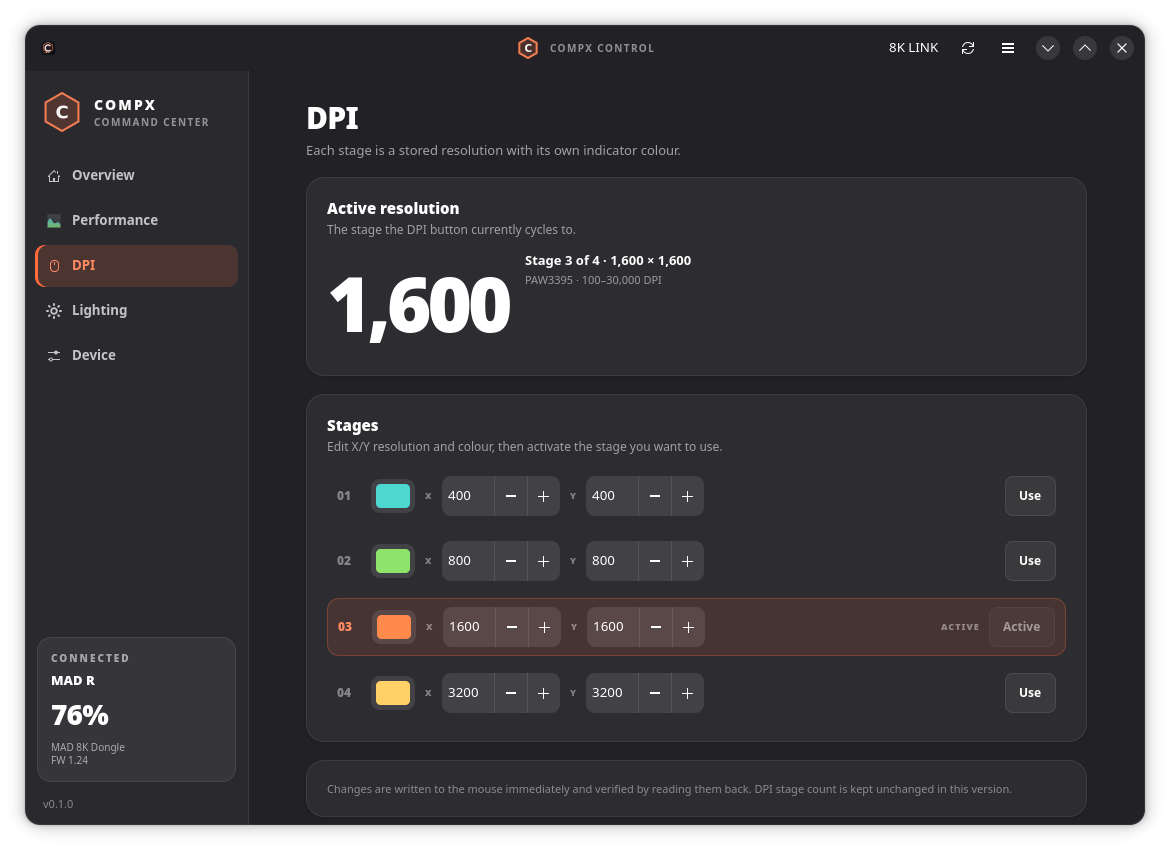
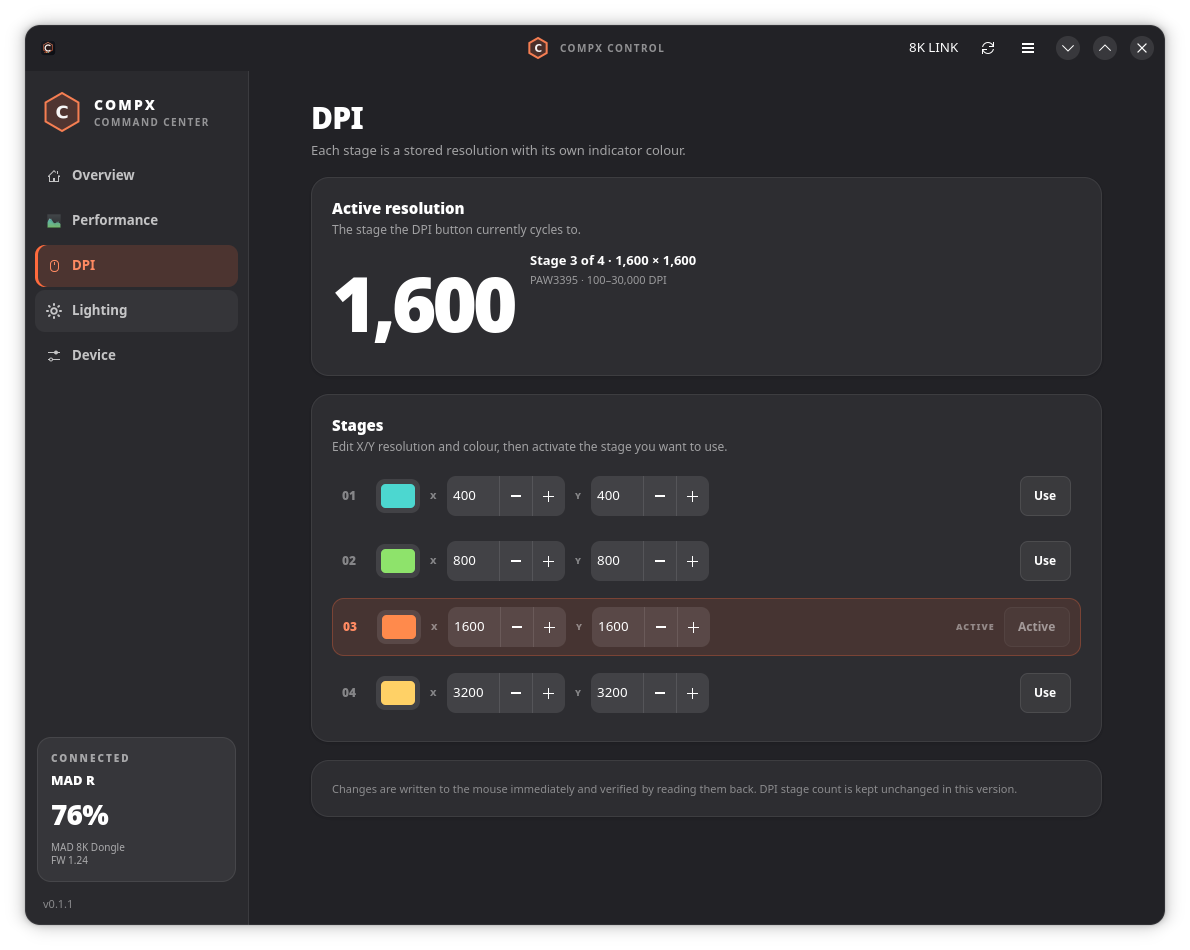
Add VXE R1 Pro 1K receiver support and receiver picker

diff --git a/compx_control/worker.py b/compx_control/worker.py
@@ -11,7 +11,7 @@ from typing import Callable
 
 from . import devices, protocol
 from .controller import Controller
-from .protocol import DeviceNotFound, PermissionDenied, ProtocolError, discover
+from .protocol import DeviceInfo, DeviceNotFound, PermissionDenied, ProtocolError, discover
 from .state import Button, MouseState
 
 StateCallback = Callable[[MouseState, set[str]], None]
@@ -41,6 +41,8 @@ class DeviceWorker:
         self._pending: OrderedDict[str, tuple] = OrderedDict()
         self._force_full = False
         self._retry_now = False
+        self._preferred_path: str | None = None
+        self._available: list[DeviceInfo] = []
         self._state = MouseState()
         self._controller: Controller | None = None
         self._connected = False
@@ -103,6 +105,19 @@ class DeviceWorker:
         with self._lock:
             self._retry_now = True
 
+    def available_devices(self) -> list[DeviceInfo]:
+        """Configuration interfaces currently present (for a device picker)."""
+        try:
+            return discover()
+        except Exception:
+            return []
+
+    def select_device(self, path: str) -> None:
+        """Switch to another receiver or cable when more than one is present."""
+        with self._lock:
+            self._preferred_path = path
+            self._retry_now = True
+
     # -- callbacks --------------------------------------------------------
     def _emit_state(self, state: MouseState, changed: set[str] | None = None) -> None:
         try:
@@ -133,9 +148,19 @@ class DeviceWorker:
     # -- connection -------------------------------------------------------
     def _connect(self) -> bool:
         candidates = discover()
+        self._available = candidates
         if not candidates:
             self._emit_link(False, "No COMPX mouse or receiver found.")
             return False
+        with self._lock:
+            preferred = self._preferred_path
+        if preferred:
+            matching = [item for item in candidates if item.path == preferred]
+            if matching:
+                candidates = matching
+            else:
+                with self._lock:
+                    self._preferred_path = None
 
         errors: list[str] = []
         for info in candidates:
@@ -245,7 +270,14 @@ class DeviceWorker:
             with self._lock:
                 retry = self._retry_now
                 self._retry_now = False
-            if retry and self._controller is not None:
+            with self._lock:
+                preferred = self._preferred_path
+            if (
+                retry
+                and self._controller is not None
+                and preferred
+                and self._controller.path != preferred
+            ):
                 self._disconnect(None)
             if self._controller is None:
                 self._emit_link(False, self._last_link_error)
@@ -378,7 +410,7 @@ class DemoWorker:
 
     @property
     def device_path(self) -> str | None:
-        return None
+        return "/dev/hidraw-demo"
 
     @property
     def capabilities(self):
@@ -401,6 +433,19 @@ class DemoWorker:
 
     def refresh(self, full: bool = True) -> None:
         self.on_state(copy.deepcopy(self._state), set())
+
+    def available_devices(self) -> list[DeviceInfo]:
+        return [DeviceInfo(
+            path="/dev/hidraw-demo",
+            vendor_id=0x373B,
+            product_id=0x1040,
+            product_name="Compx MAD 8K DONGLE",
+            bcd_device="0215",
+            accessible=True,
+        )]
+
+    def select_device(self, path: str) -> None:
+        return None
 
     def submit(self, method: str, *args, key: str | None = None) -> None:
         state = self._state

diff --git a/compx_control/ui.py b/compx_control/ui.py
@@ -988,6 +988,14 @@ class MainWindow(Adw.ApplicationWindow):
     # ---------------------------------------------------------------- device
     def _build_device(self) -> Gtk.Widget:
         page, root = self._page("Device", "Identity, stored buttons and maintenance.")
+        self.devices_card, devices_body = self._card(
+            "Configuration devices",
+            "Choose which receiver or cable to control when more than one is connected.",
+        )
+        self.devices_list = Gtk.Box(orientation=Gtk.Orientation.VERTICAL, spacing=7)
+        devices_body.append(self.devices_list)
+        root.append(self.devices_card)
+
         details, body = self._card("Hardware", "Read directly from the configuration channel.")
         self.device_values: dict[str, Gtk.Label] = {}
         for label in ("Model", "Sensor", "Connection", "Firmware", "USB", "CID / MID", "Receiver", "Device revision"):
@@ -1544,6 +1552,7 @@ class MainWindow(Adw.ApplicationWindow):
             f"{state.receiver_name} (0x{state.receiver_pid:04x})" if state.receiver_pid else "—"
         )
         self.device_values["Device revision"].set_text(state.usb_bcd or "—")
+        self._update_device_choices()
         self.profile_card.set_visible(state.profile is not None)
         for number, button in enumerate(self.profile_buttons, start=1):
             self._set_active(button, state.profile == number)
@@ -1568,6 +1577,38 @@ class MainWindow(Adw.ApplicationWindow):
                 action.set_halign(Gtk.Align.END)
                 row.append(action)
                 self.buttons_list.append(row)
+
+    def _update_device_choices(self) -> None:
+        if not hasattr(self.worker, "available_devices"):
+            self.devices_card.set_visible(False)
+            return
+        devices = self.worker.available_devices()
+        current = self.worker.device_path
+        self.devices_card.set_visible(bool(devices))
+        for child in list(self.devices_list):
+            self.devices_list.remove(child)
+        for info in devices:
+            row = Gtk.Box(orientation=Gtk.Orientation.HORIZONTAL, spacing=12)
+            text = Gtk.Box(orientation=Gtk.Orientation.VERTICAL, spacing=1)
+            text.set_hexpand(True)
+            text.append(self._label(info.product_name, "row-title"))
+            kind = "receiver" if info.is_receiver else "mouse"
+            state_text = f"{info.vendor_id:04x}:{info.product_id:04x} · {kind}"
+            if not info.accessible:
+                state_text += " · no permission"
+            text.append(self._label(state_text, "row-sub"))
+            row.append(text)
+            if info.path == current:
+                badge = self._label("IN USE", "status-pill")
+                badge.set_valign(Gtk.Align.CENTER)
+                row.append(badge)
+            else:
+                button = Gtk.Button(label="Use")
+                button.add_css_class("pill")
+                button.set_sensitive(info.accessible)
+                button.connect("clicked", lambda _b, path=info.path: self.worker.select_device(path))
+                row.append(button)
+            self.devices_list.append(row)
 
     # ---------------------------------------------------------------- dialogs
     def _save_report(self) -> None:

diff --git a/tests/test_devices.py b/tests/test_devices.py
@@ -21,6 +21,18 @@ class ModelTests(unittest.TestCase):
         assert model is not None
         self.assertEqual(model.brand, "VXE")
 
+    def test_r1_pro_identity_on_1k_receiver(self) -> None:
+        model = devices.model_for(2, 8, 0x3554, 0xF58A, "Compx VXE NordicMouse 1K Dongle")
+        self.assertIsNotNone(model)
+        assert model is not None
+        self.assertEqual(model.name, "VXE R1 Pro")
+        receiver = devices.receiver_for(0xF58A, "Compx VXE NordicMouse 1K Dongle")
+        self.assertIsNotNone(receiver)
+        assert receiver is not None
+        caps = devices.capabilities_for(model=model, receiver=receiver)
+        self.assertEqual(caps.polling_rates, [125, 250, 500, 1000])
+        self.assertEqual(caps.link_ceiling, 1000)
+
     def test_unknown_falls_back_to_usb(self) -> None:
         self.assertIsNone(devices.model_for(None, None, 0x373B, 0x9999))
         caps = devices.capabilities_for(model=None, receiver=None,

diff --git a/compx_control/protocol.py b/compx_control/protocol.py
@@ -159,7 +159,7 @@ def build_frame(cmd: int, body: bytes = b"") -> bytes:
 
 def build_read(addr: int, length: int) -> bytes:
     if not 1 <= length <= MAX_EEPROM_CHUNK:
-        raise ValueError("read length must be 1-8")
+        raise ValueError("read length must be 1-10")
     if not 0 <= addr <= 0xFFFF:
         raise ValueError("address out of range")
     return build_frame(
@@ -170,7 +170,7 @@ def build_read(addr: int, length: int) -> bytes:
 
 def build_write(addr: int, data: bytes) -> bytes:
     if not 1 <= len(data) <= MAX_EEPROM_CHUNK:
-        raise ValueError("write length must be 1-8")
+        raise ValueError("write length must be 1-10")
     if not 0 <= addr <= 0xFFFF:
         raise ValueError("address out of range")
     return build_frame(

diff --git a/compx_control/devices.py b/compx_control/devices.py
@@ -72,9 +72,13 @@ MODELS: tuple[Model, ...] = (
           usb_ids=((0x373B, 0x104C),)),
     Model(2, 133, "MAD R", "ATK", "PAW3950Ultra", 8000, bottom_button=False,
           usb_ids=((0x373B, 0x132B),)),
+    Model(2, 7, "VXE R1 Pro", "VXE", "PAW3395", 8000),
+    Model(2, 8, "VXE R1 Pro", "VXE", "PAW3395", 8000),
     Model(2, 11, "VXE R1", "VXE", "PAW3395", 8000),
     Model(2, 12, "VXE R1", "VXE", "PAW3395", 8000),
     Model(2, 27, "VXE R1 Pro Max", "VXE", "PAW3395", 8000,
+          usb_ids=((0x3554, 0xF58C),)),
+    Model(2, 28, "VXE R1 Pro Max", "VXE", "PAW3395", 8000,
           usb_ids=((0x3554, 0xF58C),)),
     Model(2, 125, "VXE R1 Pro", "VXE", "PAW3950Ultra", 8000,
           usb_ids=((0x373B, 0x1272),)),

diff --git a/compx_control/cli.py b/compx_control/cli.py
@@ -86,7 +86,10 @@ def _status(controller: Controller, as_json: bool) -> int:
         payload["dpi_max"] = caps.sensor.max_dpi
         print(json.dumps(payload, indent=2, ensure_ascii=False))
         return 0
-    print(f"{state.brand} {state.model_name}  ({state.vendor_id:04x}:{state.product_id:04x})")
+    display = state.model_name
+    if state.brand and not display.lower().startswith(state.brand.lower()):
+        display = f"{state.brand} {display}"
+    print(f"{display}  ({state.vendor_id:04x}:{state.product_id:04x})")
     print(f"Link       : {state.link_label}")
     print(f"Battery    : {state.battery if state.battery is not None else '?'}%"
           + (" charging" if state.charging else ""))

diff --git a/tests/test_worker.py b/tests/test_worker.py
@@ -47,6 +47,12 @@ class DemoWorkerTests(unittest.TestCase):
         self.worker.submit("profile", 3)
         self.assertEqual(self.worker.state.profile, 3)
 
+    def test_demo_device_picker(self) -> None:
+        devices = self.worker.available_devices()
+        self.assertEqual(len(devices), 1)
+        self.assertEqual(self.worker.device_path, "/dev/hidraw-demo")
+        self.worker.select_device("/dev/hidraw-demo")
+
 
 if __name__ == "__main__":
     unittest.main()

diff --git a/compx_control/config.py b/compx_control/config.py
@@ -8,7 +8,7 @@ from pathlib import Path
 
 APP_ID = "io.github.compxcontrol.CompxControl"
 APP_NAME = "Compx Control"
-VERSION = "0.1.0"
+VERSION = "0.1.1"
 REPO_URL = "https://github.com/NasirA1991/compx-control"
 HUB_URL = "https://hub.atk.pro/"
 

diff --git a/README.md b/README.md
@@ -18,11 +18,11 @@ mouse itself, so it keeps working when the app is closed.
 
 <sub>Screenshots are rendered by the built-in demo mode (`--demo`).</sub>
 
-> **Hardware status:** the **MAD R +** on its **8K dongle** has been verified on
-> real hardware for the features below. The rest of the MAD R family and the
-> VXE R1 family share the same configuration protocol, but have not each been
-> individually tested yet. If you have one, a
-> [read-only report](docs/DEVICE_REPORTS.md) is very welcome.
+> **Hardware status:** the **MAD R +** on its **8K dongle** and the **VXE R1
+> Pro** on its **1K receiver** have been verified on real hardware. Other MAD R
+> and VXE R1 variants share the configuration protocol but have not each been
+> individually tested. The 4K receiver path is implemented but still needs a
+> physical unit. A [read-only report](docs/DEVICE_REPORTS.md) is very welcome.
 
 ## Features
 
@@ -87,7 +87,7 @@ Download `compx-control-<version>-x86_64.flatpak` from the
 [Releases page](https://github.com/NasirA1991/compx-control/releases), then:
 
 ```bash
-flatpak install --user ./compx-control-0.1.0-x86_64.flatpak
+flatpak install --user ./compx-control-0.1.1-x86_64.flatpak
 flatpak run io.github.compxcontrol.CompxControl
 ```
 
@@ -97,8 +97,8 @@ You still need the host udev permission described below.
 ### AppImage
 
 ```bash
-chmod +x compx-control-0.1.0-x86_64.AppImage
-./compx-control-0.1.0-x86_64.AppImage
+chmod +x compx-control-0.1.1-x86_64.AppImage
+./compx-control-0.1.1-x86_64.AppImage
 ```
 
 The AppImage intentionally bundles only the application and uses the host's
@@ -190,12 +190,16 @@ USB product id, because receivers are shared between models.
 |---|---|---|
 | **MAD R +** | 8K dongle (`373b:1040`) | **Verified on hardware** — battery, polling to 8000 Hz, DPI stages and colours, Motion Sync, ripple, straight-line correction, LOD, debounce, sleep, performance mode, DPI LED, profiles, buttons (read-only) |
 | MAD R, MAD R MAJOR, MAD R MAJOR+ | cable / 8K dongle | Same protocol and capability family; not individually tested |
-| VXE R1, R1 Pro, R1 Pro Max | cable / receiver | Model entries and receiver ceilings included; hardware verification pending |
+| **VXE R1 Pro** | 1K receiver (`3554:f58a`) | **Verified on hardware** — read/write of polling (up to 1K), DPI stages and colours, Motion Sync, ripple, straight-line, LOD, debounce, sleep, performance mode and DPI LED |
+| VXE R1, VXE R1 Pro Max | cable / receiver | Model entries and receiver ceilings included; not individually tested |
 | Other COMPX mice | any | Detected read-only until a model entry is added |
 
-**Not yet exposed in 0.1.0:** button remapping, macros, firmware updates and
-changing the number of DPI stages. Button assignments are shown read-only. The
-stock 4K receiver path will be added and tested when the hardware is available.
+When more than one receiver is connected, the **Device → Configuration devices**
+card lets you switch between them.
+
+**Not yet exposed:** button remapping, macros, firmware updates and changing
+the number of DPI stages. Button assignments are shown read-only. The 4K
+receiver path is ready for hardware verification when a 4K dongle is available.
 
 ### Add your mouse
 

diff --git a/docs/PROTOCOL.md b/docs/PROTOCOL.md
@@ -61,6 +61,21 @@ Verified on a MAD R + (CID/MID `2,54`, PAW3395) through the MAD 8K dongle
 The current firmware leaves the sensor-rotation row unprogrammed, so that
 control is hidden. Firmware command `0x12` is not forwarded by this dongle.
 
+Verified on a VXE R1 Pro (CID/MID `2,8`, PAW3395) through its VXE 1K receiver
+(`3554:f58a`, USB revision 1.09):
+
+- identity, battery, four DPI stages, stage colours, advanced settings,
+  sensor mode, lighting, profile and button reads;
+- reversible writes with read-back for polling (1000 → 500 → 1000 Hz), DPI,
+  active stage, stage colour, lift-off, debounce, Motion Sync, ripple,
+  straight-line, sleep, performance mode and DPI LED;
+- 1K receiver ceiling correctly limits the UI and CLI to 1000 Hz;
+- sensor-rotation row is unprogrammed and the control is hidden;
+- firmware command `0x12` is likewise not forwarded by this receiver.
+
+The 4K receiver PID is mapped in the transport table but awaits a physical
+unit for verification.
+
 ## Safety
 
 Only model-table entries can be written. Writes use local read-modify-write for
